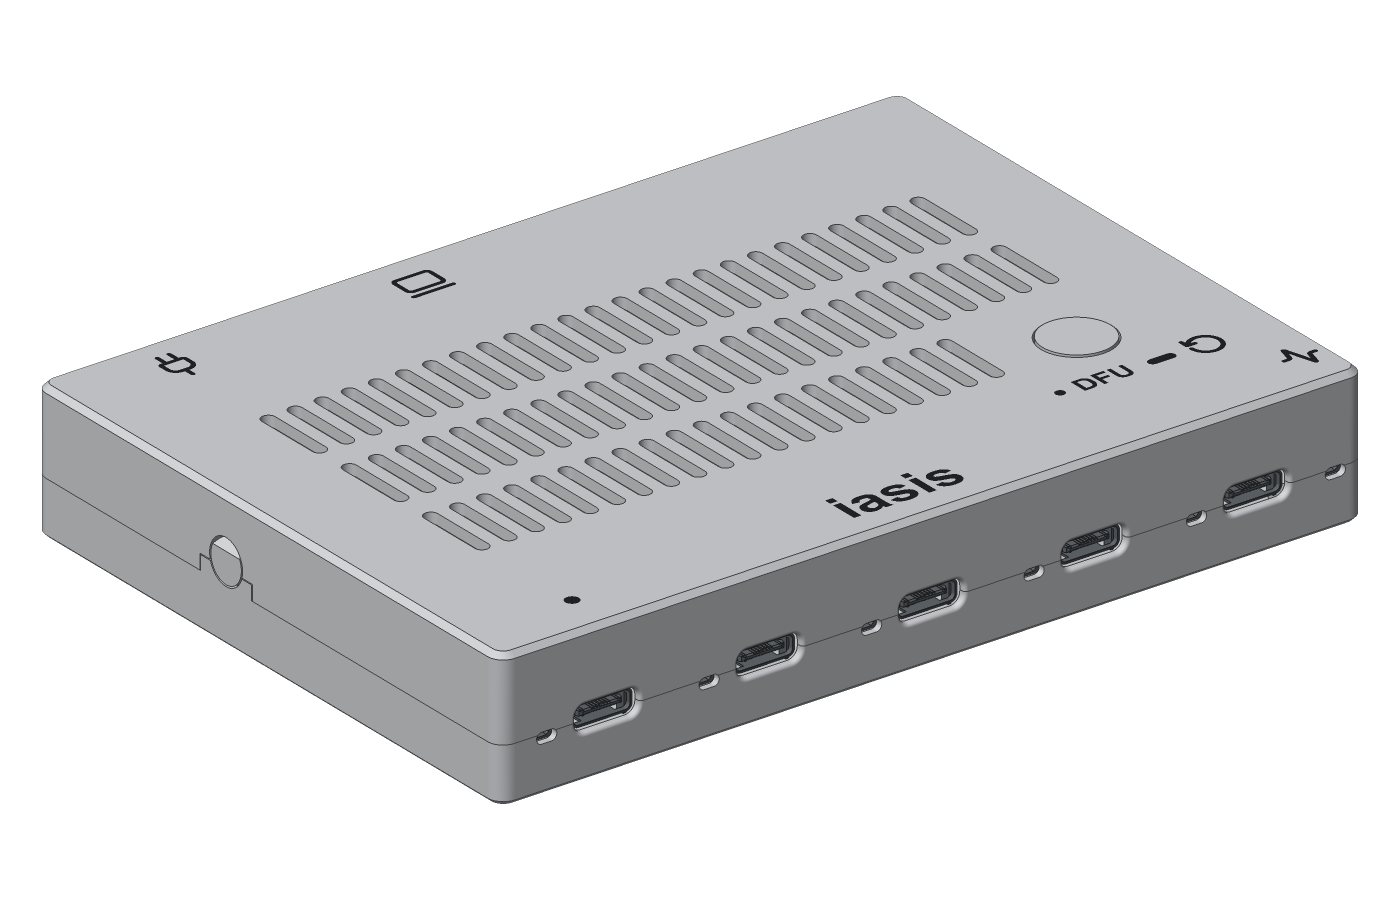
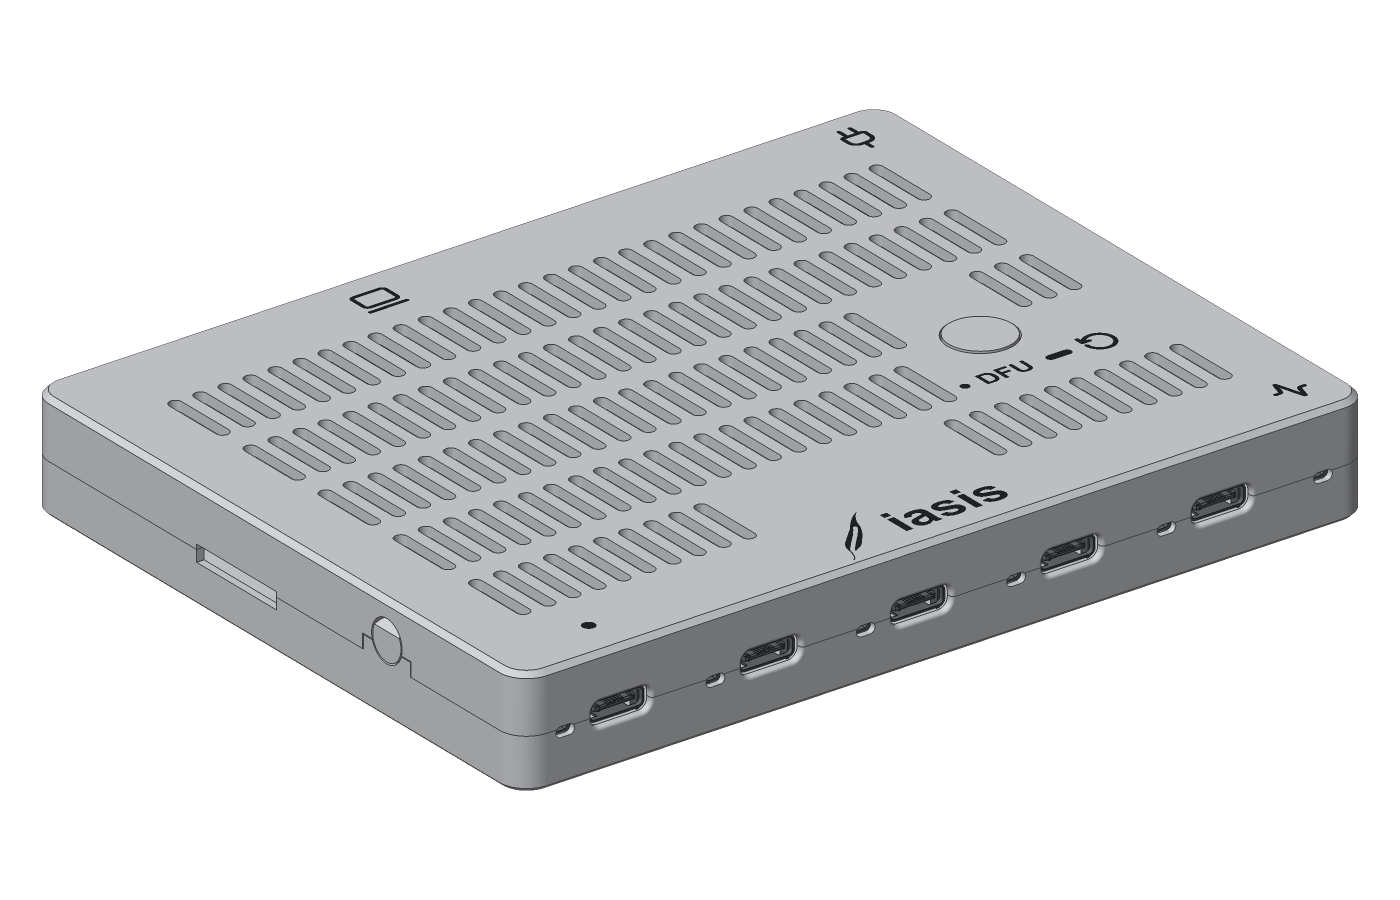
feat(case): fit pooled power board

diff --git a/hardware/lite/case/case.py b/hardware/lite/case/case.py
@@ -9,7 +9,7 @@ the STEP does not contain.
 """
 
 import math
-from dataclasses import dataclass
+from dataclasses import dataclass, field
 from functools import cached_property
 from pathlib import Path
 from typing import cast
@@ -95,6 +95,7 @@ BUTTON_FLANGE_D = 13.0
 BUTTON_FLANGE_H = (BUTTON_FLANGE_D - BUTTON_D) / 2  # printable 45 degree shoulder
 BUTTON_ROOF_GAP, BUTTON_PROUD, BUTTON_PIN = 0.2, 0.2, 4.0
 BUTTON_TRAVEL = 0.6  # case clearance envelope, not the switch's permitted stroke
+SIDE_LINK = "J2001"
 
 
 @dataclass(frozen=True)
@@ -198,6 +199,7 @@ class Layout:
     parts_top: float  # tallest placed part
     split: float
     logo: Path | None = None
+    _roofs: dict[Display | None, float] = field(default_factory=dict, init=False, repr=False)
 
     @property
     def y_front(self) -> float:
@@ -218,6 +220,8 @@ class Layout:
         return sum(self.board.box(ref).center().X for ref in DISPLAY_OVER) / len(DISPLAY_OVER)
 
     def top_inside(self, display: Display | None = None) -> float:
+        if display in self._roofs:
+            return self._roofs[display]
         top = self.parts_top + HEADROOM
         if display:
             # Only components beneath the module determine its required height.
@@ -237,7 +241,32 @@ class Layout:
             top = max(
                 top, local_top + MIN_GAP + display.back + thickness + display.glass[4] + GLASS_GAP
             )
-        return math.ceil(top * 2) / 2
+            rear = -GLASS_GAP - display.glass[4] - thickness
+            frame = DisplayFrame(self.display_x, rear, 0, display.holes)
+            # Frame rails and keeper toes hang below the display's rear components.
+            for shape in (frame.part, *frame.keepers):
+                envelope = shape.bounding_box()
+                under = [
+                    b.max.Z
+                    for b in boxes
+                    if b.min.X < envelope.max.X + MIN_GAP
+                    and b.max.X > envelope.min.X - MIN_GAP
+                    and b.min.Y < envelope.max.Y + MIN_GAP
+                    and b.max.Y > envelope.min.Y - MIN_GAP
+                ]
+                top = max(top, max(under, default=self.seat) + MIN_GAP - envelope.min.Z)
+        self._roofs[display] = math.ceil(top * 2) / 2
+        return self._roofs[display]
+
+    @cached_property
+    def side_link_passage(self) -> Part | None:
+        """Clear the closed ZIF and a straight flex through the left wall."""
+        if SIDE_LINK not in self.board.parts:
+            return None
+        b = self.board.box(SIDE_LINK)
+        return Pos(-self.length / 2, b.center().Y, b.center().Z) * Box(
+            2 * (WALL + CLEARANCE + 1), b.size.Y + 2 * PORT_FIT, b.size.Z + 2 * PORT_FIT
+        )
 
 
 @dataclass
@@ -364,6 +393,8 @@ def tray(lay: Layout) -> Part:
             LOCATOR_D / 2, LOCATOR_D / 2 - 0.4, 0.4, align=BASE
         )
     body -= Compound([_wall_cut(o) for o in lay.openings])
+    if lay.side_link_passage is not None:
+        body -= lay.side_link_passage
     joint = Joint(lay.length / 2, lay.split, lay.top_inside())
     body += Compound(joint.tray_parts())
     body -= Compound(joint.tray_cuts())
@@ -398,6 +429,8 @@ def cover(lay: Layout, name: str, display: Display | None) -> Cover:
     shell += Compound(list(intrusions.values()))
 
     cuts += [_wall_cut(o) for o in lay.openings]
+    if lay.side_link_passage is not None:
+        cuts.append(lay.side_link_passage)
     cuts += _top_slots(lay, top_in - 1, TOP + 2, display)
     sw = lay.board.box(BUTTON).center()
     cuts.append(
@@ -559,8 +592,10 @@ def _top_slots(lay: Layout, z: float, depth: float, display: Display | None) -> 
     slots = []
     rows: dict[int, list[tuple[int, Sketch]]] = {}
     # Short 12 mm vents leave cross ribs and bridge cleanly on the print bed.
-    for x in range(-48, 49, 4):
-        for y in (-16, 0, 16):
+    x_start, x_end = math.ceil((-lay.length / 2 + 10) / 4), math.floor((lay.length / 2 - 10) / 4)
+    y_start, y_end = math.ceil((-lay.width / 2 + 14) / 16), math.floor((lay.width / 2 - 14) / 16)
+    for x in range(4 * x_start, 4 * x_end + 1, 4):
+        for y in range(16 * y_start, 16 * y_end + 1, 16):
             profile = Pos(x, y, z) * Rot(Z=90) * SlotOverall(12, SLOT_W)
             b = profile.bounding_box()
             if any(

diff --git a/hardware/lite/case/check.py b/hardware/lite/case/check.py
@@ -150,6 +150,7 @@ def run(lay: case.Layout, tray: Part, covers: dict[str, case.Cover]) -> Report:
             _display_retention(r, c, parts)
         _case_retention(r, c, tray, parts)
         _paths(r, lay, c.part, tray)
+        _side_link(r, lay, c.part, tray)
         if (overlap := _overlap(c.part, tray)) > 1e-3:
             r.fail(f"{name} overlaps tray by {overlap:.2f} mm3")
         else:
@@ -318,6 +319,23 @@ def _paths(r: Report, lay: case.Layout, cover: Part, tray: Part) -> None:
         r.fail("blocked from outside: " + ", ".join(blocked))
     else:
         r.ok("maximum plug metal passes; seated overmolds and LED paths clear")
+
+
+def _side_link(r: Report, lay: case.Layout, cover: Part, tray: Part) -> None:
+    if case.SIDE_LINK not in lay.board.parts:
+        return
+    b = lay.board.box(case.SIDE_LINK)
+    path = Pos(b.min.X - 5, b.center().Y, b.center().Z) * Box(10, b.size.Y, b.size.Z)
+    opened = Pos(b.center().X, b.center().Y, b.min.Z) * Box(
+        b.size.X, b.size.Y, 3.52, align=case.BASE
+    )
+    if any(_overlap(shape, body) > 1e-3 for shape in (path, opened) for body in (cover, tray)):
+        r.fail("side-link flex passage or open ZIF envelope blocked")
+    else:
+        r.ok(
+            f"side-link {b.size.Y + 2 * case.PORT_FIT:.2f} x "
+            f"{b.size.Z + 2 * case.PORT_FIT:.2f} mm passage; 3.52 mm open ZIF envelope clear"
+        )
 
 
 def main() -> int:

diff --git a/hardware/lite/case/retention.py b/hardware/lite/case/retention.py
@@ -27,7 +27,7 @@ class Joint:
     edge: float
     split: float
     roof: float
-    y: float = 8.0
+    y: float = -24.0
     pad_z: float = 6.2
 
     @property

diff --git a/hardware/lite/pcb/README.md b/hardware/lite/pcb/README.md
@@ -1,6 +1,6 @@
 # Iasis board
 
-KiCad 10 project for the six-layer, 125 × 89 mm Iasis board. One layout carries two assembly variants, Hub and HubPD; the [repository README](../../../README.md) describes them.
+KiCad 10 project for the six-layer, 133 × 102 mm Iasis board. One layout carries three assembly variants, Hub, HubPD and CM5; the [repository README](../../../README.md) describes them.
 
 <img src="preview/board.png" alt="Hub PD, top side" width="400"> <img src="preview/layout.png" alt="Tracks on every copper layer, pads and top silkscreen outlines" width="400">
 
@@ -23,8 +23,8 @@ The task writes `build/`:
 | File                           | Contents                                                  |
 | ------------------------------ | --------------------------------------------------------- |
 | `gerbers.zip`                  | Gerber and drill files                                    |
-| `bom-Hub.csv`, `bom-HubPD.csv` | Bill of materials per variant, one row per LCSC part      |
-| `cpl-Hub.csv`, `cpl-HubPD.csv` | Placements per variant, corrected for JLCPCB's footprints |
+| `bom-Hub.csv`, `bom-HubPD.csv`, `bom-CM5.csv` | Bill of materials per variant, one row per LCSC part      |
+| `cpl-Hub.csv`, `cpl-HubPD.csv`, `cpl-CM5.csv` | Placements per variant, corrected for JLCPCB's footprints |
 
 Run `mise run //hardware/lite/pcb:preview` to refresh the tracked board and copper-layout images. Commit them with the design changes they show.
 
@@ -32,7 +32,7 @@ Run `mise run //hardware/lite/pcb:step` to export `build/board.step`, which the 
 
 The upload ZIP contains Gerber and drill files. It excludes the optional Gerber job file, whose board-preview colour and impedance-control metadata differ from the order settings below.
 
-The underside carries the name, repository URL and `REV ${REVISION}`, read from the board's title block. The PCB revision identifies a fabricated board design; tag its source commit (for example, `hw-rev-a`) and keep that release's fabrication files together. Hub and HubPD share the PCB revision.
+The underside carries the name, repository URL and `REV ${REVISION}`, read from the board's title block. The PCB revision identifies a fabricated board design; tag its source commit (for example, `hw-rev-a`) and keep that release's fabrication files together. All three assembly variants share the PCB revision.
 
 ### Logo
 
@@ -62,7 +62,7 @@ PCB options:
 
 | Option                  | Setting                 | Reason                                                                                                        |
 | ----------------------- | ----------------------- | ------------------------------------------------------------------------------------------------------------- |
-| Layers, size            | 6, 125 × 89 mm          |                                                                                                               |
+| Layers, size            | 6, 133 × 102 mm          |                                                                                                               |
 | Thickness               | 1.6 mm                  | Economic assembly of six layers needs 1.6 mm, green and ENIG                                                  |
 | Specify stackup         | JLC06161H-3313          | The 90 Ω pairs (0.1356 mm tracks, 0.1501 mm gap) are sized for it; accept JLC's 1.54 mm actual thickness note |
 | Colour                  | Green                   | As thickness                                                                                                  |

diff --git a/README.md b/README.md
@@ -4,12 +4,13 @@ Five-port USB-C hub with programmable DFU signalling for Apple devices.
 
 The host connects to a USB 3 hub and an RP2354 management controller. Restore traffic passes through the hub; the controller handles port orientation, power and DFU commands. A Mac can remain the restore host. A CM5 build adds a side board with a Raspberry Pi Compute Module 5 as the host, using the same USB control interface.
 
-One six-layer PCB supports two assembly variants:
+One six-layer PCB supports three assembly variants:
 
 - **Hub:** host-powered logic and limited 5 V target presence supplies.
 - **HubPD:** the same hub with a USB-C power input. A connected power supply runs the whole board and its power is shared across the target ports at 5, 9, 15 or 20 V, so a lone device can take most of it. Without one, HubPD works like Hub.
+- **CM5:** HubPD with the side-link connector and protection fitted. The separate CM5 board joins through a short flex and needs a power supply that offers 20 V.
 
-The CM5 build is HubPD plus the side board, joined by a short flex; it needs a power supply that offers 20 V. Without a power supply, the available upstream USB power limits the combined target supply; five simultaneous restores are a prototype test goal.
+The CM5 BOM and placements cover the main board; the daughterboard is a separate design. Without a power supply, the available upstream USB power limits the combined target supply; five simultaneous restores are a prototype test goal.
 
 The MCU connects to an internal USB2 hub port, so the same host cable supports management and RP2354 ROM programming. BOOTSEL and RESET buttons provide recovery without soldering; SWD and 3.3 V UART solder pads provide independent debugging. The optional display is independent of core operation. DFU, revive and erase are separate deliberate actions.
 
@@ -41,7 +42,7 @@ Tools come from mise (`mise install` at the repository root); KiCad 10 is needed
 mise run //hardware/lite/pcb:fab
 ```
 
-This writes `hardware/lite/pcb/build/`: `gerbers.zip` (gerbers and drill files for JLCPCB), and `bom-Hub.csv`, `bom-HubPD.csv`, `cpl-Hub.csv` and `cpl-HubPD.csv` for JLCPCB assembly of each variant, with placements corrected for JLCPCB's footprints. [hardware/lite/pcb](hardware/lite/pcb/README.md) lists the JLCPCB order options. The enclosure has its own tasks; see [hardware/lite/case](hardware/lite/case/README.md).
+This writes `hardware/lite/pcb/build/`: `gerbers.zip` (gerbers and drill files for JLCPCB), and `bom-Hub.csv`, `bom-HubPD.csv`, `bom-CM5.csv` and their matching `cpl-*.csv` files for JLCPCB assembly of each variant, with placements corrected for JLCPCB's footprints. [hardware/lite/pcb](hardware/lite/pcb/README.md) lists the JLCPCB order options. The enclosure has its own tasks; see [hardware/lite/case](hardware/lite/case/README.md).
 
 ## License
 

diff --git a/hardware/lite/case/README.md b/hardware/lite/case/README.md
@@ -1,6 +1,6 @@
 # Iasis case
 
-A screwless 3D-printable enclosure for Iasis, generated with [build123d](https://github.com/gumyr/build123d) from the populated board. Passive and OLED covers share a tray. Both bodies measure 128 × 91.6 × 20.1 mm.
+A screwless 3D-printable enclosure for Iasis, generated with [build123d](https://github.com/gumyr/build123d) from the populated board. Passive and OLED covers share a tray. The bodies measure 136 × 104.6 mm, with heights of 17.1 mm for the passive cover and 19.6 mm for the OLED cover. The button stands another 0.2 mm above the roof.
 
 <img src="preview/case.png" alt="Iasis enclosure" width="500">
 
@@ -42,6 +42,8 @@ Use a 0.4 mm nozzle and 0.20 mm layers, without supports. Print the button in th
 Place the board on the tray pegs, insert the button from inside the cover, and press the cover down until both end catches engage. To open, press the two round end-wall pads inward and lift the cover vertically.
 
 The OLED cover accepts an Adafruit 938 STEMMA QT display. Seat it on the cover's locating pins, slip the retaining frame into the two rear keepers, then press its front edge into the finger catch. To remove it, push the finger pad inward, lift the front edge and slide the frame out. Connect a Qwiic cable before closing the case, keeping the lead clear of the button and catches.
+
+A 17.02 × 2.62 mm opening in the left wall clears the optional J2001 side-link connector and its flat flex. Fit or release the flex with the cover removed. This enclosure holds the main board; the CM5 daughterboard needs its own support and enclosure.
 
 A dot marks target port 1; laptop and plug icons identify host and power. The activity icon marks the Iasis status LED. The button legend denotes a click for DFU and a hold to reboot connected targets. Firmware is not yet implemented. Remove the cover to reach BOOTSEL and RESET.
 
